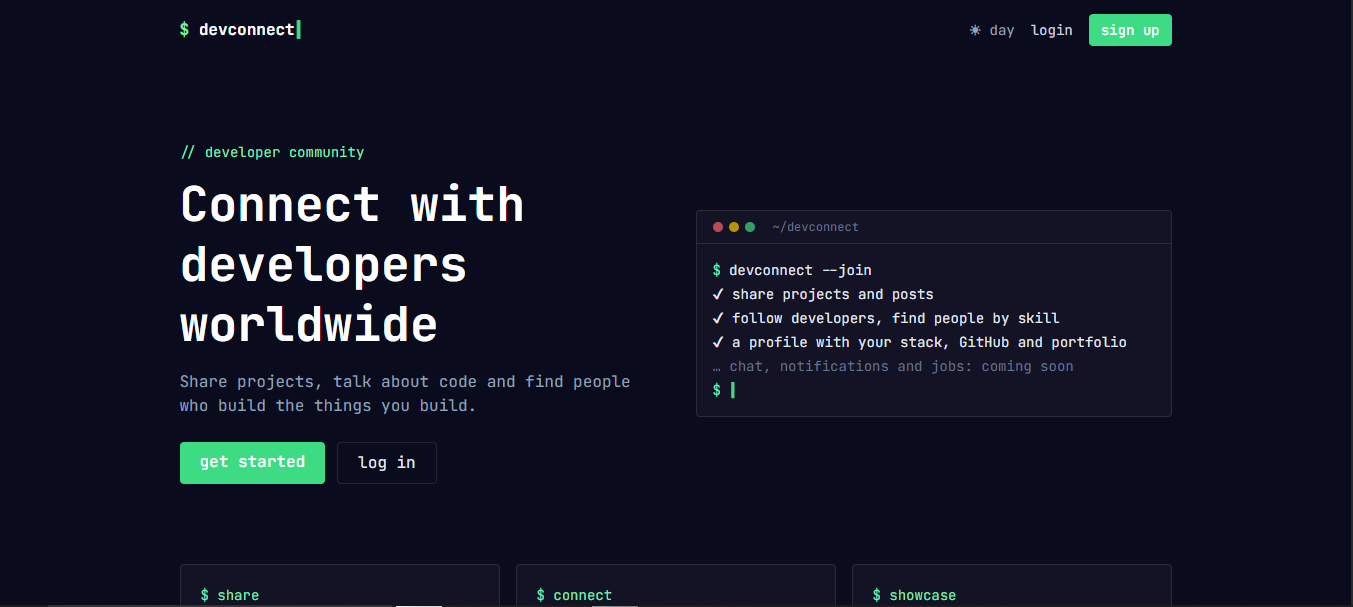
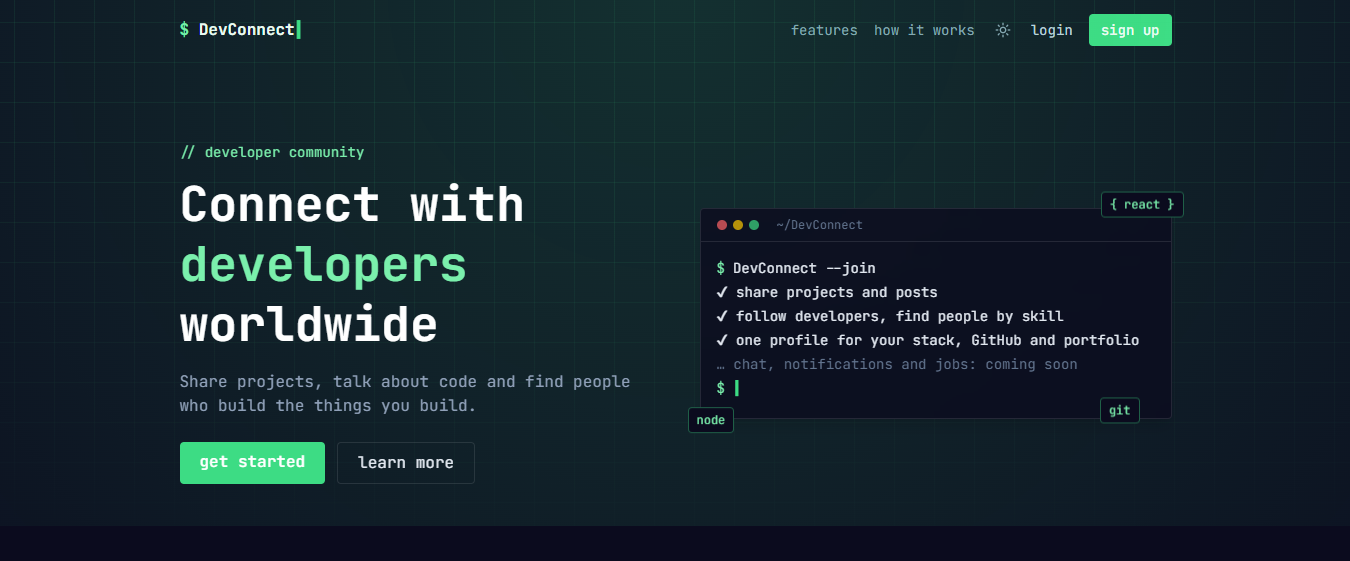
style: comment out stack section in Landing component

diff --git a/frontend/src/pages/Landing.jsx b/frontend/src/pages/Landing.jsx
@@ -173,7 +173,7 @@ export default function Landing() {
         </section>
 
         {/* stack strip */}
-        <section className="pb-12">
+        {/* <section className="pb-12">
           <p className="mb-3 text-xs text-slate-500">{"// built with"}</p>
           <ul className="flex flex-wrap gap-2">
             {stack.map((s) => (
@@ -185,7 +185,7 @@ export default function Landing() {
               </li>
             ))}
           </ul>
-        </section>
+        </section> */}
 
         {/* features */}
         <section id="features" className="scroll-mt-6 pb-16">
